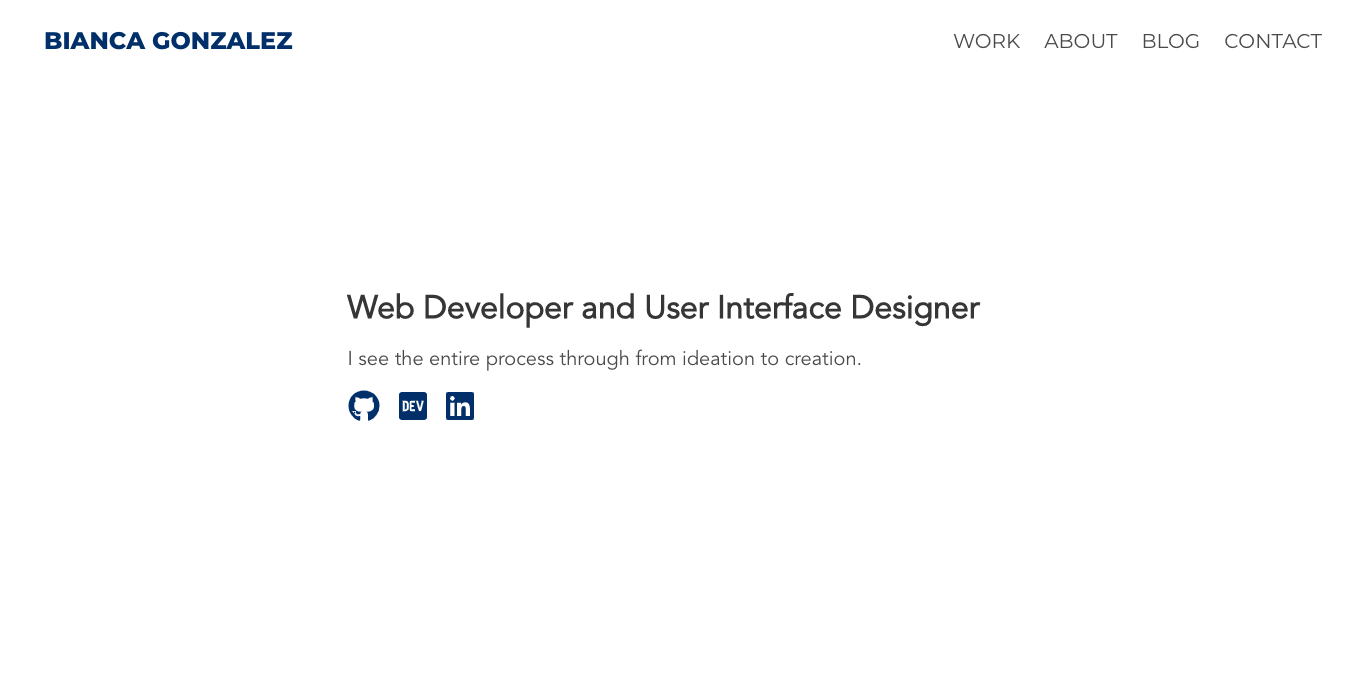
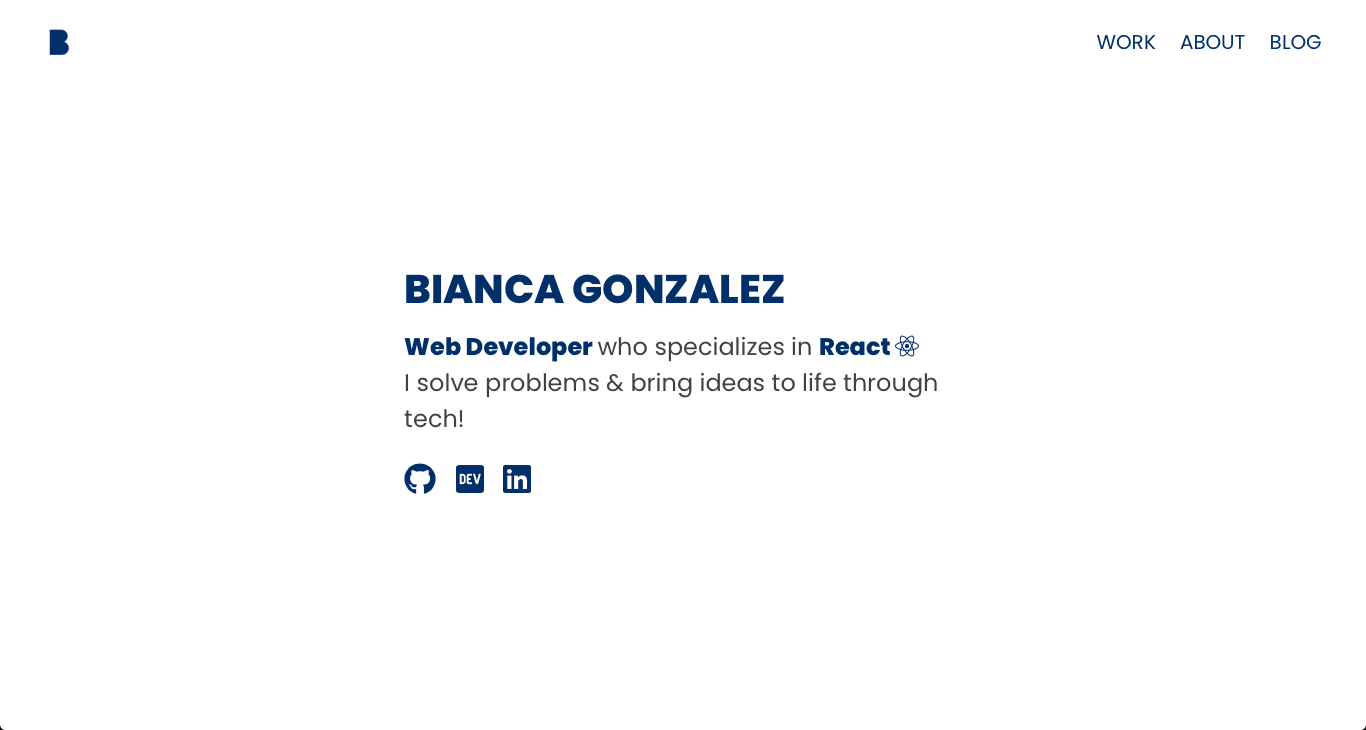
app(feat): update metadata
update thumbnail, update description

diff --git a/gatsby-config.js b/gatsby-config.js
@@ -1,9 +1,9 @@
 module.exports = {
   siteMetadata: {
     title: `Bianca Gonzalez`,
-    description: `Hi there, I'm Bianca! I'm a self-taught Web Developer and User Interface Designer.`,
+    description: `Hi there, I'm Bianca! I'm a Web Developer who specializes in React. I solve problems & bring ideas to life through tech!`,
     url: `https://bfgonzalez.netlify.app`,
-    image: `https://imgur.com/UvZJjcu.jpg`,
+    image: `https://github.com/bfgonzalez/portfolio/blob/master/public/static/thumbnail.png`,
     author: `@bfgonzalez`,
   },
   plugins: [
